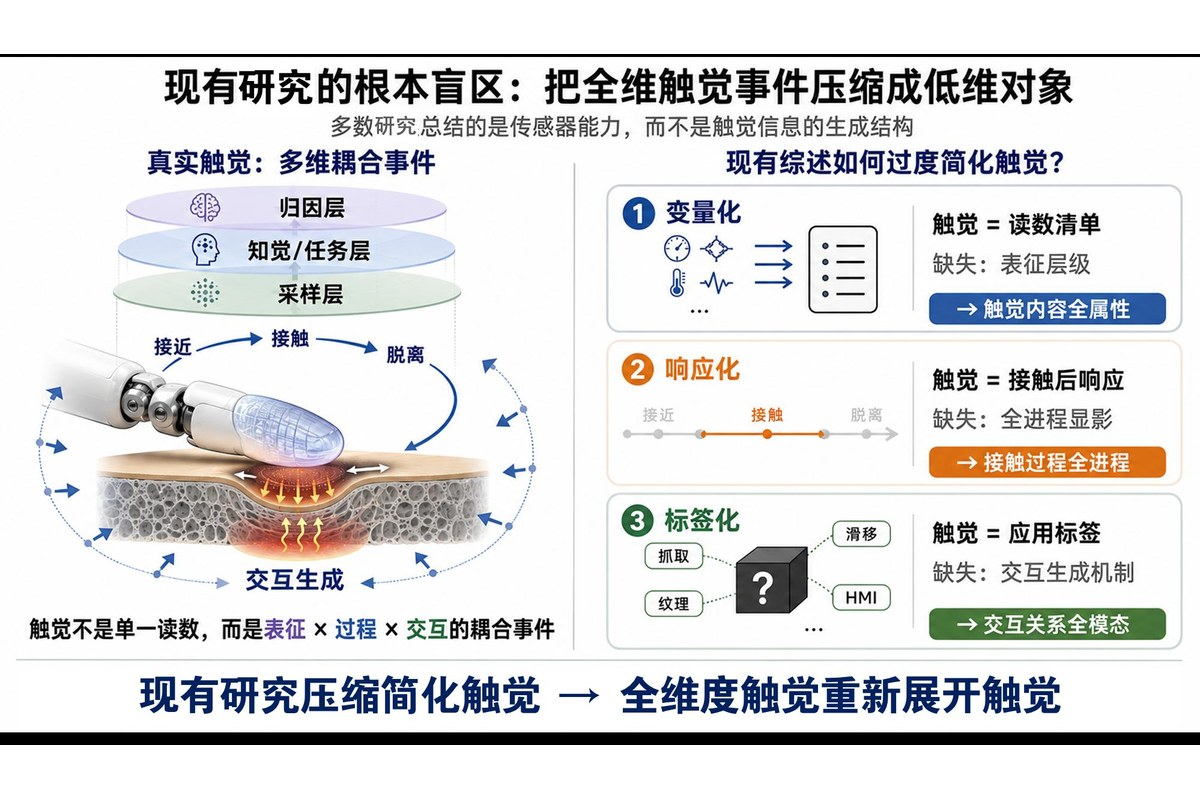
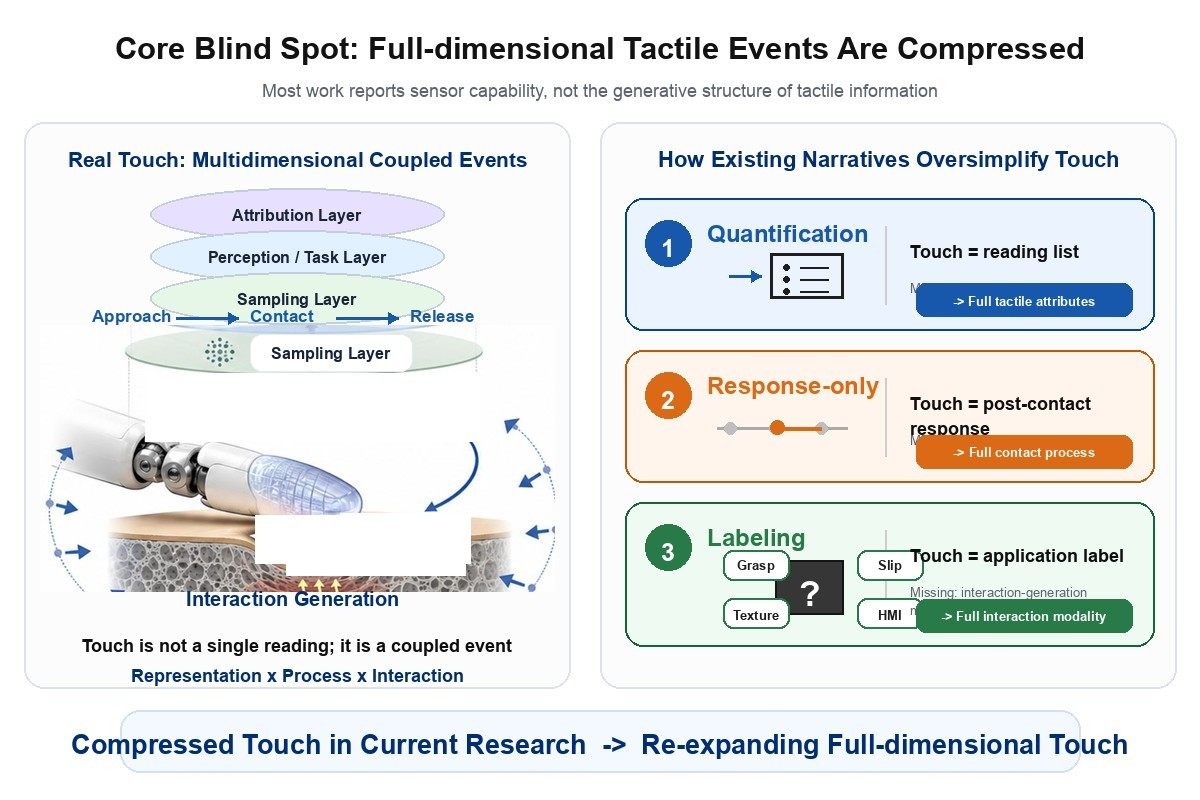
Use English bionic haptics cover

diff --git a/assets/js/content.js b/assets/js/content.js
@@ -257,7 +257,7 @@ window.SITE = {
       tech: ["Haptic UX", "User Study", "Data Analysis", "Python", "Smart Cockpit"]
     },
     {
-      img: "assets/img/proj-bionic-haptics.jpg?v=20260606-bionic-haptics",
+      img: "assets/img/proj-bionic-haptics.jpg?v=20260606-bionic-haptics-en",
       flag: { en: "Competition Finalist", zh: "大赛决赛项目" },
       title: { en: "Bio-inspired Full-dimensional Tactile Sensing", zh: "仿生全维度触觉传感系统" },
       sub: { en: "Mechanism-bionic tactile sensing for interpretable contact events",

diff --git a/index.html b/index.html
@@ -108,7 +108,7 @@
     </div>
   </noscript>
 
-  <script src="assets/js/content.js?v=20260606-bionic-haptics" defer></script>
+  <script src="assets/js/content.js?v=20260606-bionic-haptics-en" defer></script>
   <script src="assets/js/app.js?v=20260605-haptic" defer></script>
 </body>
 </html>
